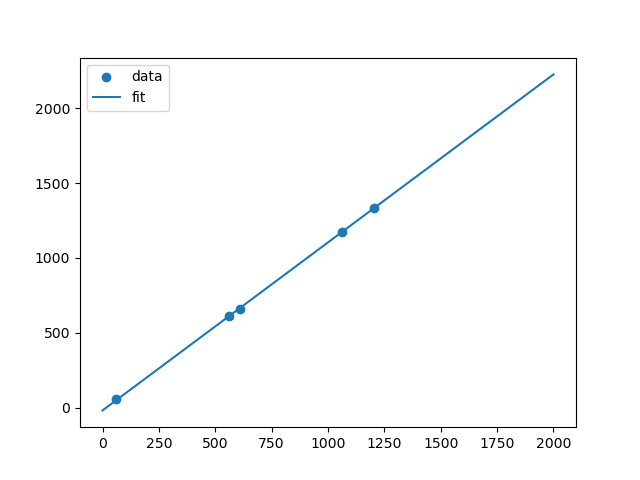
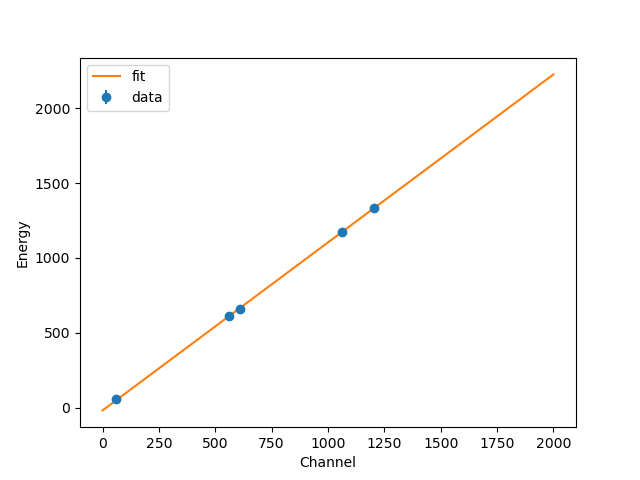
Flere figurer

diff --git a/Vinkelfordeling final.py b/Vinkelfordeling final.py
@@ -123,12 +123,13 @@ oEes = [[NaI40[1][0], NaI60[1][0], NaI80[1][0], NaI100[1][0], NaI116[1][0]]]
 angles = np.array([40, 60, 80, 100, 116])
 angleErr = angles**0
 
-plt.errorbar(angles, oEs, yerr=oEes, xerr=angleErr, fmt=",")
-angleHelp = np.linspace(angles[0], angles[-1], 100)
-plt.plot(angleHelp, conservation(angleHelp))
+plt.errorbar(angles, oEs, yerr=oEes, xerr=angleErr, fmt=",", label='measured energies')
+angleHelp = np.linspace(angles[0]-5, angles[-1]+4, 100)
+plt.plot(angleHelp, conservation(angleHelp), label='Theoretical energy')
 plt.xlabel('Angle (Degrees)')
 plt.ylabel('Energy (KeV)')
 plt.title('Comparison with theoretical energy')
+plt.legend()
 plt.savefig('Comparison with theoretical energy.pdf')
 plt.show()
 
@@ -145,10 +146,10 @@ for i in range(len(NaIparams)):
     area = sig * amp * 2 * np.pi
     sigerr = NaIparams[i][1][1]
     amperr = NaIparams[i][1][2]
-    areaUncertaintyA = np.sqrt((sigerr / sig) + (amperr / amp)) * 2 * np.pi
-    areaUncertainty = areaUncertaintyA / area
+    areaUncertaintyA = np.sqrt((sigerr / sig)**2 + (amperr / amp)**2) * 2 * np.pi
+    areaUncertainty = areaUncertaintyA * area
     Is += [area/times[i,1]]
-    Ies += [areaUncertainty]
+    Ies += [areaUncertainty/times[i,1]]
 
 def prob(theta):
     alpha = 661.661  # keV

diff --git a/Databehandling kalibrering.py b/Databehandling kalibrering.py
@@ -32,6 +32,8 @@ def getCounts(name: str, lc: int = 1, hc: int = 2000):
     y = y[lI:hI]
     plt.plot(x, y)
     plt.title(name)
+    plt.xlabel('Channel')
+    plt.ylabel('Counts')
     plt.show()
     return (x, y)
 
@@ -57,6 +59,8 @@ def getChannel(name: str, data: tuple, lower_limit: int, upper_limit: int, guess
 
     plt.plot(x, y, color="r", label="data")
     plt.plot(xhelp, gaussFit(xhelp, *popt), 'k-.', label="gaussfit")
+    plt.xlabel('Channel')
+    plt.ylabel('Counts')
     plt.legend()
 
     plt.title(name)
@@ -96,9 +100,12 @@ print('usikkerheder:', perr)
 #print(x)
 chmin = np.sum(((y - funlin(x, *popt)) / yler) ** 2)
 print('chi2:', chmin, ' ---> p:', ss.chi2.cdf(chmin, 4))
-plt.scatter(x, y, label="data")
+plt.errorbar(x, y, yerr=yler, label="data", fmt='o')
 plt.plot(xhelp, funlin(xhelp, *popt), label="fit")
 plt.legend()
+plt.xlabel('Channel')
+plt.ylabel('Energy')
+plt.savefig('CH-E Calibration')
 plt.show()
 
 print("xler: ", xler)

diff --git a/Attenuation.py b/Attenuation.py
@@ -150,7 +150,7 @@ print('chi2:', chmin, ' ---> p:', ss.chi2.cdf(chmin, 4))
 
 plt.plot(x, expFit(x, *popt), label = "fit")
 
-plt.errorbar(x, y, yerr = yler, xerr= xler, fmt='+', label = "Intensity", capsize=10)
+plt.errorbar(x, y, yerr = yler, xerr= xler, fmt='o', label = "Intensity", capsize=10)
 plt.title('Intensity')
 plt.legend()
 plt.xlabel("Thickness of aluminium (mm)")
